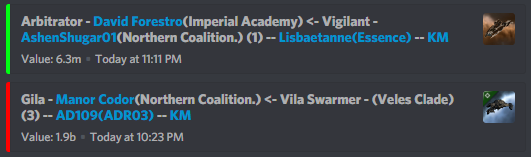
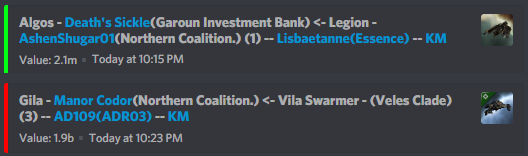
Fix appearance image.

diff --git a/ChangeLog.md b/ChangeLog.md
@@ -2,7 +2,7 @@
 ## New features
 * Server-wide command prefix modification support. Users can now add and remove Insight prefixes via the **!prefix** command.
 * Docker support. Insight is available to run as a Docker container with all dependencies packaged.
-* Various new appearance options.
+* Various new appearance options. Variations of the compact appearance for entity feeds and the new abbreviated appearance for all feed types.
 ## Changes
 * All references to the capital radar feed have been renamed to radar feed as this feed tracks more than just capital ships.
 * Crash recovery support in the parent Insight parent process which can be enabled via the ```-cr``` CLI arg.
